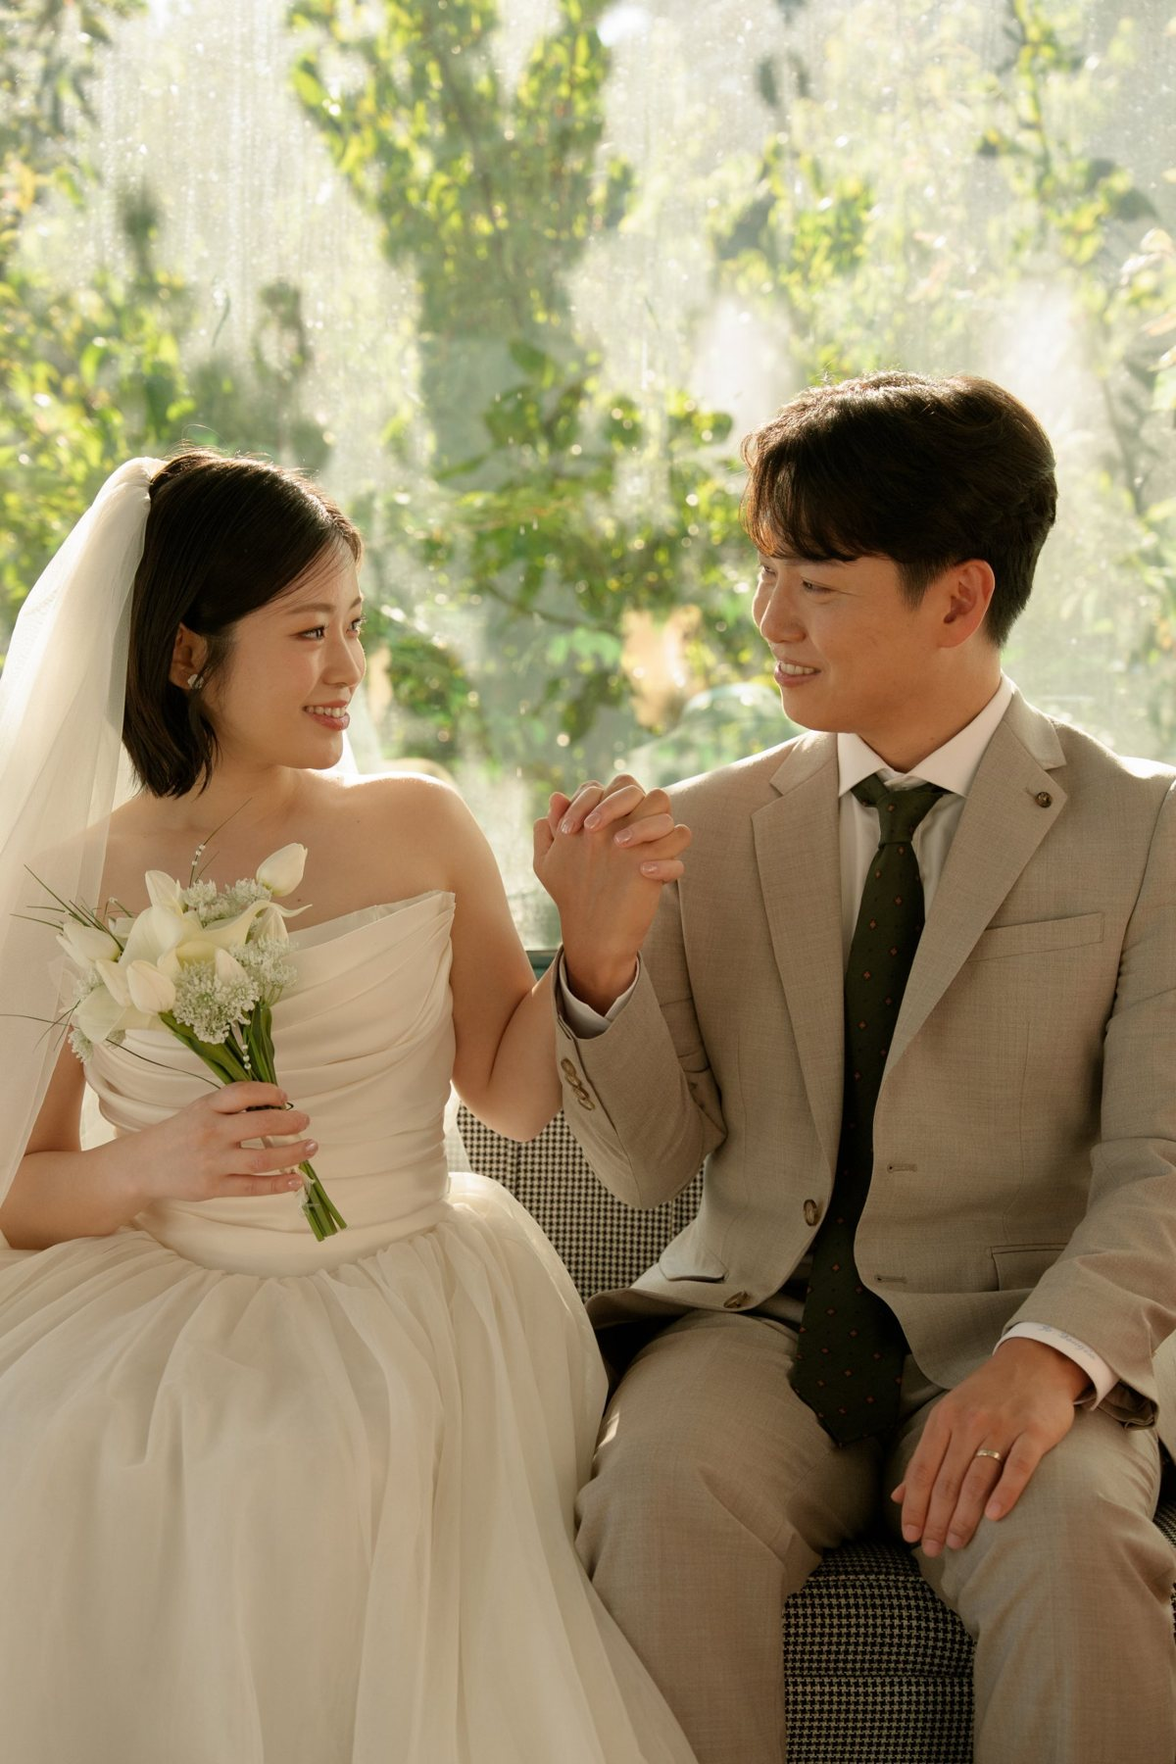
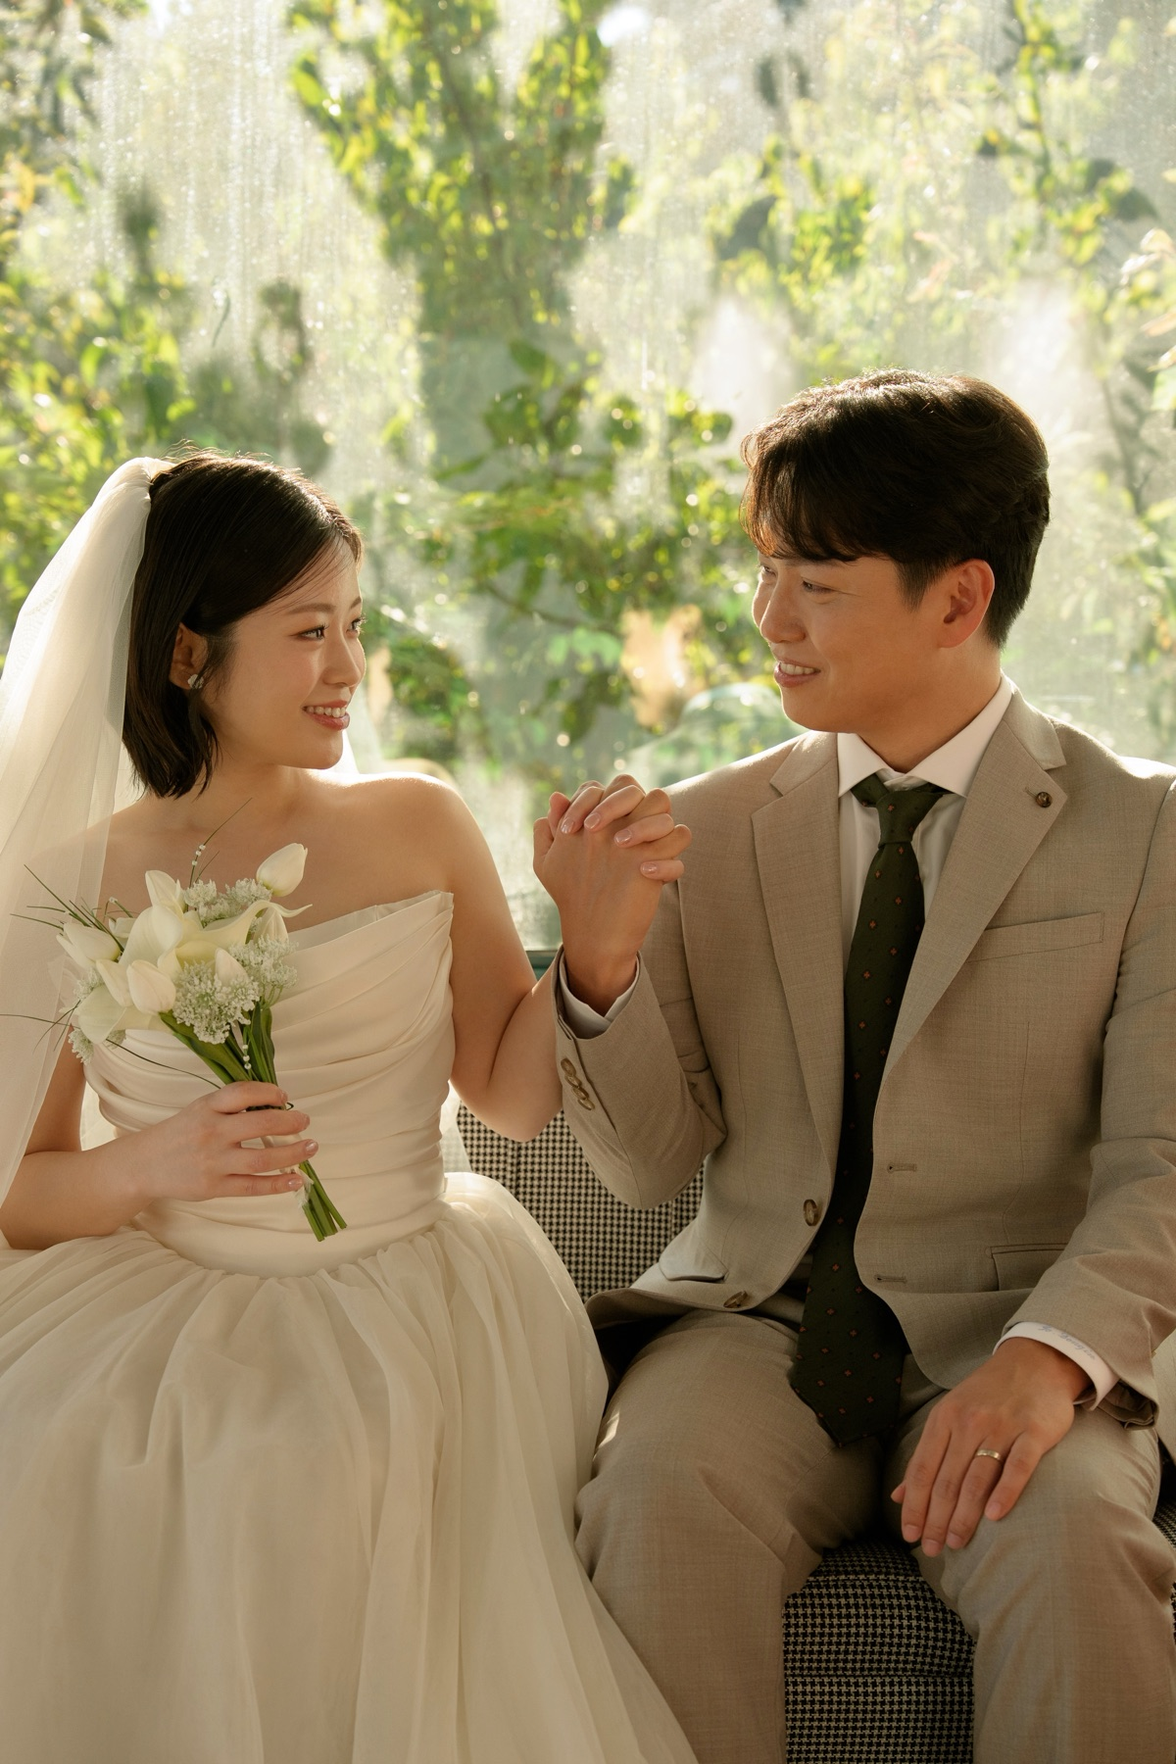
survey: 결혼알림 설문 페이지 추가, 보정본 p03·p08·p09 교체
- survey.html: 구글 폼 연결된 결혼 알림 + 설문 페이지
- p03 ← goya_0318수정, p08 ← goya_0897수정, p09 ← goya_0977수정

diff --git a/survey.html b/survey.html
@@ -1,0 +1,369 @@
+<!doctype html>
+<html lang="ko">
+<head>
+<meta charset="utf-8">
+<meta name="viewport" content="width=device-width, initial-scale=1, viewport-fit=cover">
+<title>저희 결혼합니다 | 조동인 ♡ 도아라</title>
+<meta name="description" content="축의금 대신, 저희의 시작에 한마디를 보태 주세요. 약 3분이면 충분해요.">
+<meta property="og:url" content="https://ahra-do.github.io/wedding/survey.html">
+<meta name="robots" content="noindex, nofollow">
+<!-- 카카오톡·문자 미리보기 -->
+<meta property="og:type" content="website">
+<meta property="og:title" content="저희 결혼합니다 | 조동인 ♡ 도아라">
+<meta property="og:description" content="축의금 대신, 저희의 시작에 한마디를 보태 주세요. (약 3분)">
+<meta property="og:image" content="https://ahra-do.github.io/wedding/images/og.jpg">
+<meta property="og:image:width" content="1200">
+<meta property="og:image:height" content="628">
+<link rel="preconnect" href="https://fonts.googleapis.com">
+<link rel="preconnect" href="https://fonts.gstatic.com" crossorigin>
+<link rel="stylesheet" href="https://fonts.googleapis.com/css2?family=Nanum+Myeongjo:wght@400;700;800&family=Noto+Sans+KR:wght@400;500;700&display=swap">
+<style>
+*{box-sizing:border-box}
+html,body{margin:0;background:#ececec}
+body{font-family:'Nanum Myeongjo',serif;color:#333;-webkit-text-size-adjust:100%}
+button,input,textarea{font-family:inherit}
+button{cursor:pointer}
+.wrap{max-width:480px;margin:0 auto;background:#fff;overflow:hidden}
+.sans{font-family:'Noto Sans KR',sans-serif}
+h2.t{margin:0;font-weight:400;font-size:22px;letter-spacing:2px;color:#8a8a8a}
+
+/* cover */
+.cover{position:relative;width:100%;aspect-ratio:390/600;background:#c9c9cc;overflow:hidden}
+.cover img{position:absolute;inset:0;width:100%;height:100%;object-fit:cover;object-position:center 35%}
+.cover .top{position:absolute;top:6.3%;left:0;right:0;text-align:center;font-size:clamp(22px,6.5vw,30px);letter-spacing:3px;color:#fff;text-shadow:0 1px 8px rgba(0,0,0,.3)}
+.cover .shade{position:absolute;left:0;right:0;bottom:0;height:40%;background:linear-gradient(180deg,rgba(60,60,64,0) 0%,rgba(60,60,64,.55) 45%,rgba(70,70,74,.9) 100%)}
+.cover .info{position:absolute;left:0;right:0;bottom:8%;display:flex;flex-direction:column;align-items:center;gap:12px;color:#fff}
+.cover .names{display:flex;align-items:center;gap:22px;font-size:32px;letter-spacing:8px}
+.cover .amp{font-size:24px;letter-spacing:0;color:rgba(255,255,255,.75)}
+.cover .sub{font-size:15px;letter-spacing:1px;color:rgba(255,255,255,.9)}
+
+/* invite */
+.invite{background:#f4f4f4;padding:80px 24px 88px;display:flex;flex-direction:column;align-items:center;gap:36px}
+.invite .body{display:flex;flex-direction:column;gap:28px;text-align:center;font-size:15px;line-height:2.1;color:#222;word-break:keep-all}
+.invite p{margin:0}
+.invite .gift{font-weight:700;color:#333}
+.invite .sign{margin-top:6px;font-weight:700;color:#444}
+
+/* form */
+.qs{padding:80px 20px 40px;display:flex;flex-direction:column;align-items:center;gap:14px}
+.pill{font-size:12px;color:#777;border:1px solid #ddd;border-radius:14px;padding:4px 12px;letter-spacing:.5px}
+.lead{margin:6px 0 18px;text-align:center;font-size:13px;line-height:1.9;color:#777;word-break:keep-all}
+form{width:100%;display:flex;flex-direction:column;gap:14px}
+.card{background:#f8f8fa;border-radius:20px;padding:24px 18px 20px;display:flex;flex-direction:column;gap:12px}
+.card .n{font-size:12px;letter-spacing:3px;color:#aaa}
+.card label.q,.card .q{font-size:16px;line-height:1.6;color:#222;word-break:keep-all;font-weight:700}
+.card .h{margin-top:-6px;font-size:12px;line-height:1.7;color:#888;word-break:keep-all}
+.opt{font-size:11px;font-weight:400;color:#999;margin-left:4px;letter-spacing:.5px}
+input[type=text],textarea{width:100%;border:1px solid #e1e1e5;border-radius:12px;background:#fff;padding:12px 14px;font-size:16px;line-height:1.6;color:#222;outline:none;-webkit-appearance:none;appearance:none}
+textarea{min-height:96px;resize:vertical}
+input[type=text]:focus,textarea:focus{border-color:#9a9aa2}
+.row2{display:grid;grid-template-columns:repeat(2,minmax(0,1fr));gap:8px}
+.chips{display:flex;flex-wrap:wrap;gap:8px}
+.chips label{flex:1 1 0;min-width:0}
+.chips input{position:absolute;opacity:0;pointer-events:none}
+.chips span{display:flex;align-items:center;justify-content:center;height:44px;border:1px solid #ddd;border-radius:22px;background:#fff;font-size:13px;color:#555;white-space:nowrap}
+.chips input:checked+span{background:#4a4a50;border-color:#4a4a50;color:#fff}
+.chips input:focus-visible+span{outline:2px solid #9a9aa2;outline-offset:2px}
+.cnt{align-self:flex-end;margin-top:-6px;font-size:11px;color:#aaa}
+.err{display:none;font-size:12px;color:#b5561f}
+.card.bad .err{display:block}
+.card.bad input,.card.bad textarea{border-color:#d9a183}
+.submit{margin-top:10px;height:54px;border:0;border-radius:27px;background:#4a4a50;color:#fff;font-size:16px;letter-spacing:2px}
+.submit:disabled{opacity:.5}
+.fine{margin:4px 0 0;text-align:center;font-size:12px;line-height:1.8;color:#999;word-break:keep-all}
+
+/* done */
+.done{padding:96px 24px 40px;display:flex;flex-direction:column;align-items:center;gap:24px;text-align:center}
+.done p{margin:0;font-size:15px;line-height:2.1;color:#333;word-break:keep-all}
+.done .big{font-size:22px;letter-spacing:2px;color:#444}
+
+.outro{padding:56px 24px 80px;display:flex;flex-direction:column;align-items:center;gap:16px;text-align:center}
+.outro p{margin:0;font-size:14px;line-height:2;color:#666;word-break:keep-all}
+.outro .sign{font-size:13px;letter-spacing:2px;color:#999}
+/* gallery */
+.gallery{padding:88px 12px 24px;display:flex;flex-direction:column;align-items:center;gap:32px}
+.ggrid{width:100%;display:grid;grid-template-columns:repeat(3,minmax(0,1fr));gap:5px}
+.ggrid button{padding:0;border:0;background:#eee;display:block}
+.ggrid img{width:100%;aspect-ratio:1/1;object-fit:cover;object-position:center 30%;display:block}
+.lb{position:fixed;inset:0;background:rgba(0,0,0,.92);display:flex;align-items:center;justify-content:center;z-index:10}
+.lb img{max-width:100%;max-height:100%;object-fit:contain}
+.lb .x,.lb .nav{position:absolute;border:0;background:transparent;color:#fff;font-size:28px;width:48px;height:48px}
+.lb .x{top:12px;right:8px}
+.lb .prev{left:4px;top:50%;transform:translateY(-50%)}
+.lb .next{right:4px;top:50%;transform:translateY(-50%)}
+
+/* progress */
+.prog{position:fixed;top:0;left:50%;transform:translate(-50%,-100%);width:100%;max-width:480px;z-index:5;background:rgba(255,255,255,.94);-webkit-backdrop-filter:blur(8px);backdrop-filter:blur(8px);border-bottom:1px solid #eee;padding:12px 20px 12px;padding-top:max(12px,env(safe-area-inset-top));transition:transform .3s ease}
+.prog.on{transform:translate(-50%,0)}
+.prog .lab{display:flex;justify-content:space-between;align-items:baseline;margin-bottom:8px;font-size:12px;color:#888}
+.prog .lab b{font-size:14px;font-weight:700;color:#333;letter-spacing:.5px}
+.prog .track{position:relative;height:6px;border-radius:3px;background:#ececf0}
+.prog .fill{position:absolute;left:0;top:0;bottom:0;width:0;border-radius:3px;background:#4a4a50;transition:width .35s ease}
+.prog .dot{position:absolute;top:50%;width:14px;height:14px;margin-left:-7px;border-radius:50%;background:#fff;border:2px solid #4a4a50;transform:translateY(-50%);left:0;transition:left .35s ease}
+@media (prefers-reduced-motion:reduce){.prog,.prog .fill,.prog .dot{transition:none}}
+[hidden]{display:none!important}
+</style>
+</head>
+<body>
+<div class="prog sans" id="prog" aria-hidden="true">
+  <div class="lab"><span id="plab">천천히 답해 주세요</span><b><span id="pn">0</span> / <span id="pt">8</span></b></div>
+  <div class="track"><div class="fill" id="pfill"></div><div class="dot" id="pdot"></div></div>
+</div>
+<main class="wrap">
+
+  <section class="cover">
+    <img src="images/p03.jpg" alt="정원에서 손을 맞잡은 조동인과 도아라">
+    <div class="top">저희 결혼합니다</div>
+    <div class="shade"></div>
+    <div class="info">
+      <div class="names"><span>동인</span><span class="amp">&amp;</span><span>아라</span></div>
+      <div class="sub">2026. 10. 30</div>
+    </div>
+  </section>
+
+  <section class="invite">
+    <h2 class="t">소식 전합니다</h2>
+    <div class="body">
+      <p>10월 30일,<br>저희 두 사람이 부부가 됩니다.</p>
+      <p>예식은 양가 가족만 모여<br>작고 조용하게 치르기로 했어요.<br>소중한 분들을 모두 모시지 못하는 대신,<br>저희 이야기를 담은 작은 잡지를 만들고 있어요.</p>
+      <p>어디에 파는 잡지는 아니고요,<br>저희 둘이 두고두고 꺼내 보려고 만드는<br>세상에 하나뿐인 앨범 같은 거예요.</p>
+      <p>그 안에 저희를 곁에서 지켜봐 주신<br>여러분의 목소리를 담고 싶어요.</p>
+      <p class="gift">축의금은 정말 받지 않으려고 해요.<br>마음만으로 충분합니다.</p>
+      <p>대신 저희의 시작을 축하하는 마음으로<br>아래 질문에 답해 주시면,<br>그게 가장 큰 선물이 될 것 같아요.</p>
+      <p class="sign">조동인 · 도아라 드림</p>
+    </div>
+  </section>
+
+  <section class="qs" id="qs">
+    <h2 class="t">몇 가지 질문</h2>
+    <span class="pill sans">약 3분</span>
+    <p class="lead sans">보내주신 답은 잡지에 실릴 수 있어요.<br>잡지는 판매하지 않고, 저희가 간직하면서<br>웹으로도 만들어 가까운 지인들과만 나눠 볼 예정이에요.<br>지면 사정상 일부만 싣거나 조금 줄여 실을 수 있는 점,<br>미리 양해 부탁드려요.</p>
+
+    <form id="f" novalidate>
+      <div class="card" data-req>
+        <span class="n sans">01</span>
+        <label class="q" for="name">성함</label>
+        <input type="text" id="name" name="name" autocomplete="name" maxlength="30">
+        <span class="err sans">성함을 알려 주세요.</span>
+      </div>
+
+      <div class="card" data-req>
+        <span class="n sans">02</span>
+        <label class="q" for="relation">저희와는 어떤 사이인가요?</label>
+        <p class="h sans">예: 아라 친구, 동인 친구</p>
+        <input type="text" id="relation" name="relation" maxlength="40">
+        <span class="err sans">어떤 사이인지 알려 주세요.</span>
+      </div>
+
+      <div class="card" data-req>
+        <span class="n sans">03</span>
+        <span class="q" id="dq">잡지에 이름을 어떻게 실을까요?</span>
+        <div class="chips sans" role="radiogroup" aria-labelledby="dq">
+          <label><input type="radio" name="display" value="실명"><span>실명으로</span></label>
+          <label><input type="radio" name="display" value="성만"><span>성만 (김○○)</span></label>
+          <label><input type="radio" name="display" value="익명"><span>익명으로</span></label>
+        </div>
+        <span class="err sans">하나를 골라 주세요.</span>
+      </div>
+
+      <div class="card" data-req>
+        <span class="n sans">04</span>
+        <label class="q" for="q1">저희는 어떤 부부가 될 것 같나요?</label>
+        <p class="h sans">한두 문장이면 충분해요.<br>둘 중 한 사람만 잘 아신다면, 아라는 어떤 아내가, 동인이는 어떤 남편이 될 것 같은지 들려주셔도 좋아요.</p>
+        <textarea id="q1" name="q1" maxlength="300"></textarea>
+        <span class="cnt sans" data-for="q1"></span>
+        <span class="err sans">한 줄이라도 좋아요.</span>
+      </div>
+
+      <div class="card" data-req>
+        <span class="n sans">05</span>
+        <label class="q" for="q2">함께 살며 행복하려면 무엇이 가장 중요할까요?</label>
+        <textarea id="q2" name="q2" maxlength="300"></textarea>
+        <span class="cnt sans" data-for="q2"></span>
+        <span class="err sans">한 줄이라도 좋아요.</span>
+      </div>
+
+      <div class="card">
+        <span class="n sans">06</span>
+        <label class="q" for="q3">같이 살면, 이건 좀 걱정돼요<span class="opt sans">선택</span></label>
+        <p class="h sans">장난스러운 답도 환영해요.</p>
+        <textarea id="q3" name="q3" maxlength="300"></textarea>
+        <span class="cnt sans" data-for="q3"></span>
+      </div>
+
+      <div class="card">
+        <span class="n sans">07</span>
+        <label class="q" for="q4">저희에게 궁금한 것 하나<span class="opt sans">선택</span></label>
+        <p class="h sans">두 사람이 각자 답해서 잡지에 실어요.</p>
+        <input type="text" id="q4" name="q4" maxlength="100">
+      </div>
+
+      <div class="card">
+        <span class="n sans">08</span>
+        <label class="q" for="note">잡지와 별개로, 저희에게만 하고 싶은 말<span class="opt sans">선택</span></label>
+        <p class="h sans">이 답은 잡지에 싣지 않고 저희만 읽을게요.</p>
+        <textarea id="note" name="note" maxlength="1000"></textarea>
+      </div>
+
+      <button type="submit" class="submit" id="go">마음 보내기</button>
+      <p class="fine sans">보내기 전까지 쓰던 내용은 이 기기에 임시로 남아 있어요.</p>
+    </form>
+  </section>
+
+  <section class="done" id="done" hidden tabindex="-1">
+    <p class="big">고맙습니다</p>
+    <p>보내주신 마음,<br>잘 받았어요.</p>
+    <p>올해 말 저희는 보스턴으로 떠나요.<br>떠나기 전에 한 분이라도 더<br>얼굴 보고 인사드리고 싶습니다.</p>
+  </section>
+
+  <section class="gallery">
+    <h2 class="t">10월 8일의 우리</h2>
+    <div class="ggrid" id="ggrid"></div>
+  </section>
+
+  <footer class="outro">
+    <p>저희의 시작을 함께 축하해 주셔서<br>감사합니다.</p>
+    <p class="sign">동인 &amp; 아라</p>
+  </footer>
+
+</main>
+
+<div class="lb" id="lb" hidden>
+  <img id="lbimg" alt="">
+  <button type="button" class="x" id="lbx" aria-label="닫기">✕</button>
+  <button type="button" class="nav prev" id="lbprev" aria-label="이전 사진">‹</button>
+  <button type="button" class="nav next" id="lbnext" aria-label="다음 사진">›</button>
+</div>
+
+<script>
+(function(){
+  /* ── 구글 폼 연결 설정 ──────────────────────────────
+     FORM_ID : 구글 폼 '보내기 > 링크'의 /forms/d/e/ 뒤 긴 값
+     각 entry 번호 : '미리 채워진 링크 가져오기'로 얻은 entry.숫자
+     FORM_ID가 비어 있으면 실제 전송 없이 완료 화면만 보여줘요(미리보기용). */
+  var FORM_ID = '1FAIpQLSfeBm_3A3MSAVpefyN8O5kksBmORyOlgeGdE-iIJv2JUy9oFA';
+  var ENTRY = {
+    name:     'entry.1975563547',
+    relation: 'entry.625001196',
+    display:  'entry.276410444',
+    q1:       'entry.1257030499',
+    q2:       'entry.1263813710',
+    q3:       'entry.652517693',
+    q4:       'entry.1809541326',
+    note:     'entry.1040810041'
+  };
+  /* ─────────────────────────────────────────────── */
+
+  var f = document.getElementById('f'), go = document.getElementById('go');
+  var KEY = 'ardong-survey-draft';
+  var store = {
+    get: function(){ try { return JSON.parse(localStorage.getItem(KEY) || '{}'); } catch(e){ return {}; } },
+    set: function(v){ try { localStorage.setItem(KEY, JSON.stringify(v)); } catch(e){} },
+    clear: function(){ try { localStorage.removeItem(KEY); } catch(e){} }
+  };
+
+  function val(name){
+    var el = f.elements[name];
+    if (!el) return '';
+    if (el.length && el[0] && el[0].type === 'radio') {
+      for (var i = 0; i < el.length; i++) if (el[i].checked) return el[i].value;
+      return '';
+    }
+    return (el.value || '').trim();
+  }
+  function collect(){ var o = {}; Object.keys(ENTRY).forEach(function(k){ o[k] = val(k); }); return o; }
+
+  // 임시 저장 복원
+  var draft = store.get();
+  Object.keys(draft).forEach(function(k){
+    var el = f.elements[k]; if (!el || !draft[k]) return;
+    if (el.length && el[0] && el[0].type === 'radio') {
+      for (var i = 0; i < el.length; i++) if (el[i].value === draft[k]) el[i].checked = true;
+    } else el.value = draft[k];
+  });
+
+  function counts(){
+    document.querySelectorAll('.cnt').forEach(function(c){
+      var t = document.getElementById(c.dataset.for);
+      c.textContent = t.value.length ? t.value.length + ' / ' + t.maxLength : '';
+    });
+  }
+  counts();
+
+  // 진행 막대
+  var KEYS = Object.keys(ENTRY), prog = document.getElementById('prog');
+  var MSG = ['천천히 답해 주세요','좋아요, 시작했어요','순조로워요','절반 가까이 왔어요','벌써 절반!','거의 다 왔어요','조금만 더요','마지막 하나!','다 채웠어요, 고맙습니다'];
+  document.getElementById('pt').textContent = KEYS.length;
+  function progress(){
+    var n = KEYS.filter(function(k){ return val(k) !== ''; }).length, pct = n / KEYS.length * 100;
+    document.getElementById('pn').textContent = n;
+    document.getElementById('pfill').style.width = pct + '%';
+    document.getElementById('pdot').style.left = pct + '%';
+    document.getElementById('plab').textContent = MSG[Math.round(n / KEYS.length * (MSG.length - 1))];
+  }
+  progress();
+  var qs = document.getElementById('qs');
+  if ('IntersectionObserver' in window) {
+    new IntersectionObserver(function(es){
+      es.forEach(function(e){ prog.classList.toggle('on', e.isIntersecting && !qs.hidden); });
+    }, {rootMargin:'-30% 0px -30% 0px'}).observe(qs);
+  } else prog.classList.add('on');
+
+  f.addEventListener('change', progress);
+  f.addEventListener('input', function(e){
+    store.set(collect()); counts(); progress();
+    var card = e.target.closest('.card'); if (card) card.classList.remove('bad');
+  });
+
+  f.addEventListener('submit', function(e){
+    e.preventDefault();
+    var first = null;
+    document.querySelectorAll('.card[data-req]').forEach(function(card){
+      var input = card.querySelector('input,textarea');
+      var ok = val(input.name) !== '';
+      card.classList.toggle('bad', !ok);
+      if (!ok && !first) first = card;
+    });
+    if (first) { first.scrollIntoView({behavior:'smooth', block:'center'}); return; }
+
+    go.disabled = true; go.textContent = '보내는 중…';
+    var data = collect(), body = new URLSearchParams();
+    Object.keys(ENTRY).forEach(function(k){ if (data[k]) body.append(ENTRY[k], data[k]); });
+
+    var send = FORM_ID
+      ? fetch('https://docs.google.com/forms/d/e/' + FORM_ID + '/formResponse', {method:'POST', mode:'no-cors', body: body})
+      : new Promise(function(r){ setTimeout(r, 600); });
+
+    send.then(function(){
+      store.clear();
+      document.getElementById('qs').hidden = true; prog.classList.remove('on');
+      var d = document.getElementById('done'); d.hidden = false;
+      d.scrollIntoView({behavior:'smooth', block:'start'}); d.focus({preventScroll:true});
+    }, function(){
+      go.disabled = false; go.textContent = '마음 보내기';
+      alert('전송이 잘 안 됐어요. 인터넷 연결을 확인하고 다시 눌러 주세요. 쓰신 내용은 그대로 남아 있어요.');
+    });
+  });
+
+  // 갤러리
+  var N=12,g=document.getElementById('ggrid'),cur=0;
+  var src=function(i){return 'images/p'+String(i+1).padStart(2,'0')+'.jpg';};
+  for(var i=0;i<N;i++){(function(i){
+    var b=document.createElement('button');b.type='button';b.setAttribute('aria-label','사진 '+(i+1)+' 크게 보기');
+    var im=document.createElement('img');im.src=src(i);im.alt='웨딩 사진 '+(i+1);im.loading='lazy';
+    b.appendChild(im);b.addEventListener('click',function(){show(i);});g.appendChild(b);
+  })(i);}
+  var lb=document.getElementById('lb'),lbi=document.getElementById('lbimg');
+  function show(i){cur=(i+N)%N;lbi.src=src(cur);lbi.alt='웨딩 사진 '+(cur+1);lb.hidden=false;document.body.style.overflow='hidden';}
+  function hide(){lb.hidden=true;document.body.style.overflow='';}
+  document.getElementById('lbx').onclick=hide;
+  document.getElementById('lbprev').onclick=function(e){e.stopPropagation();show(cur-1);};
+  document.getElementById('lbnext').onclick=function(e){e.stopPropagation();show(cur+1);};
+  lb.addEventListener('click',function(e){if(e.target===lb)hide();});
+  document.addEventListener('keydown',function(e){if(lb.hidden)return;if(e.key==='Escape')hide();else if(e.key==='ArrowLeft')show(cur-1);else if(e.key==='ArrowRight')show(cur+1);});
+  var sx=null;lb.addEventListener('touchstart',function(e){sx=e.touches[0].clientX;},{passive:true});
+  lb.addEventListener('touchend',function(e){if(sx===null)return;var dx=e.changedTouches[0].clientX-sx;if(Math.abs(dx)>40)show(cur+(dx<0?1:-1));sx=null;});
+})();
+</script>
+</body>
+</html>
